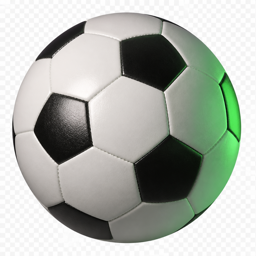
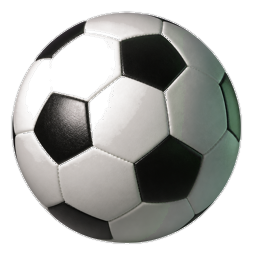
Fix nav ball: transparent cutout, remove green glow.
Ball asset no longer has white square; nav uses neutral ball without mint tint.

diff --git a/lib/features/shell/football_nav/football_nav_bar.dart b/lib/features/shell/football_nav/football_nav_bar.dart
@@ -130,7 +130,7 @@ class _TabHitState extends State<_TabHit> {
               child: Column(
                 mainAxisSize: MainAxisSize.min,
                 children: [
-                  // Active = to‘p fon (yashil pill emas); inactive = yengil to‘p
+                  // To‘p fon — oq kvadrat / yashil glow yo‘q
                   SizedBox(
                     width: on ? 46 : 36,
                     height: on ? 46 : 36,
@@ -139,35 +139,32 @@ class _TabHitState extends State<_TabHit> {
                       clipBehavior: Clip.none,
                       children: [
                         Opacity(
-                          opacity: on ? 1 : 0.5,
+                          opacity: on ? 1 : 0.55,
                           child: FootballBall(
-                            size: on ? 44 : 34,
-                            glow: on,
-                            selected: on,
+                            size: on ? 42 : 32,
+                            glow: false,
+                            selected: false,
                           ),
                         ),
-                        // Icon o‘qilishi uchun to‘p ustida yengil soyali
                         if (on)
                           Container(
-                            width: 28,
-                            height: 28,
+                            width: 26,
+                            height: 26,
                             decoration: BoxDecoration(
                               shape: BoxShape.circle,
-                              color: Colors.black.withValues(alpha: 0.28),
+                              color: Colors.black.withValues(alpha: 0.32),
                             ),
                           ),
                         Icon(
                           widget.icon,
-                          size: on ? 20 : 22,
-                          color: Colors.white.withValues(alpha: on ? 1 : 0.9),
-                          shadows: on
-                              ? const [
-                                  Shadow(
-                                    color: Color(0x99000000),
-                                    blurRadius: 6,
-                                  ),
-                                ]
-                              : null,
+                          size: on ? 19 : 21,
+                          color: Colors.white.withValues(alpha: on ? 1 : 0.88),
+                          shadows: const [
+                            Shadow(
+                              color: Color(0xAA000000),
+                              blurRadius: 5,
+                            ),
+                          ],
                         ),
                       ],
                     ),

diff --git a/lib/features/shell/football_nav/football_ball.dart b/lib/features/shell/football_nav/football_ball.dart
@@ -3,9 +3,7 @@ import 'dart:ui' as ui;
 
 import 'package:flutter/material.dart';
 
-import '../../../core/theme/app_theme.dart';
-
-/// Photoreal ball with optional glow + GPU rotation.
+/// Photoreal ball — transparent cutout, no green tint.
 class FootballBall extends StatelessWidget {
   const FootballBall({
     super.key,
@@ -36,31 +34,32 @@ class FootballBall extends StatelessWidget {
         height: size,
         child: Stack(
           alignment: Alignment.center,
+          clipBehavior: Clip.none,
           children: [
+            // Neutral depth shadow only (no mint/green)
             if (glow || selected)
               Container(
-                width: size * 1.35,
-                height: size * 1.35,
+                width: size * 1.15,
+                height: size * 1.15,
                 decoration: BoxDecoration(
                   shape: BoxShape.circle,
                   boxShadow: [
                     BoxShadow(
-                      color: AppColors.primary.withValues(alpha: 0.45),
-                      blurRadius: 14,
-                      spreadRadius: 1,
+                      color: Colors.black.withValues(alpha: 0.35),
+                      blurRadius: 10,
+                      spreadRadius: 0,
                     ),
                   ],
                 ),
               ),
-            // Soft contact shadow under ball
             Positioned(
-              bottom: 0,
+              bottom: 1,
               child: Container(
-                width: size * 0.7,
-                height: size * 0.18,
+                width: size * 0.65,
+                height: size * 0.16,
                 decoration: BoxDecoration(
                   borderRadius: BorderRadius.circular(99),
-                  color: Colors.black.withValues(alpha: 0.35),
+                  color: Colors.black.withValues(alpha: 0.28),
                 ),
               ),
             ),
@@ -69,6 +68,7 @@ class FootballBall extends StatelessWidget {
               width: size,
               height: size,
               fit: BoxFit.contain,
+              filterQuality: FilterQuality.high,
               errorBuilder: (_, __, ___) => Image.asset(
                 'assets/football/ball-real.png',
                 width: size,
@@ -83,7 +83,6 @@ class FootballBall extends StatelessWidget {
 
     if (!trail) return ball;
 
-    // Motion smear — 3 ghost frames behind
     return SizedBox(
       width: size * 2.2,
       height: size * 1.4,
